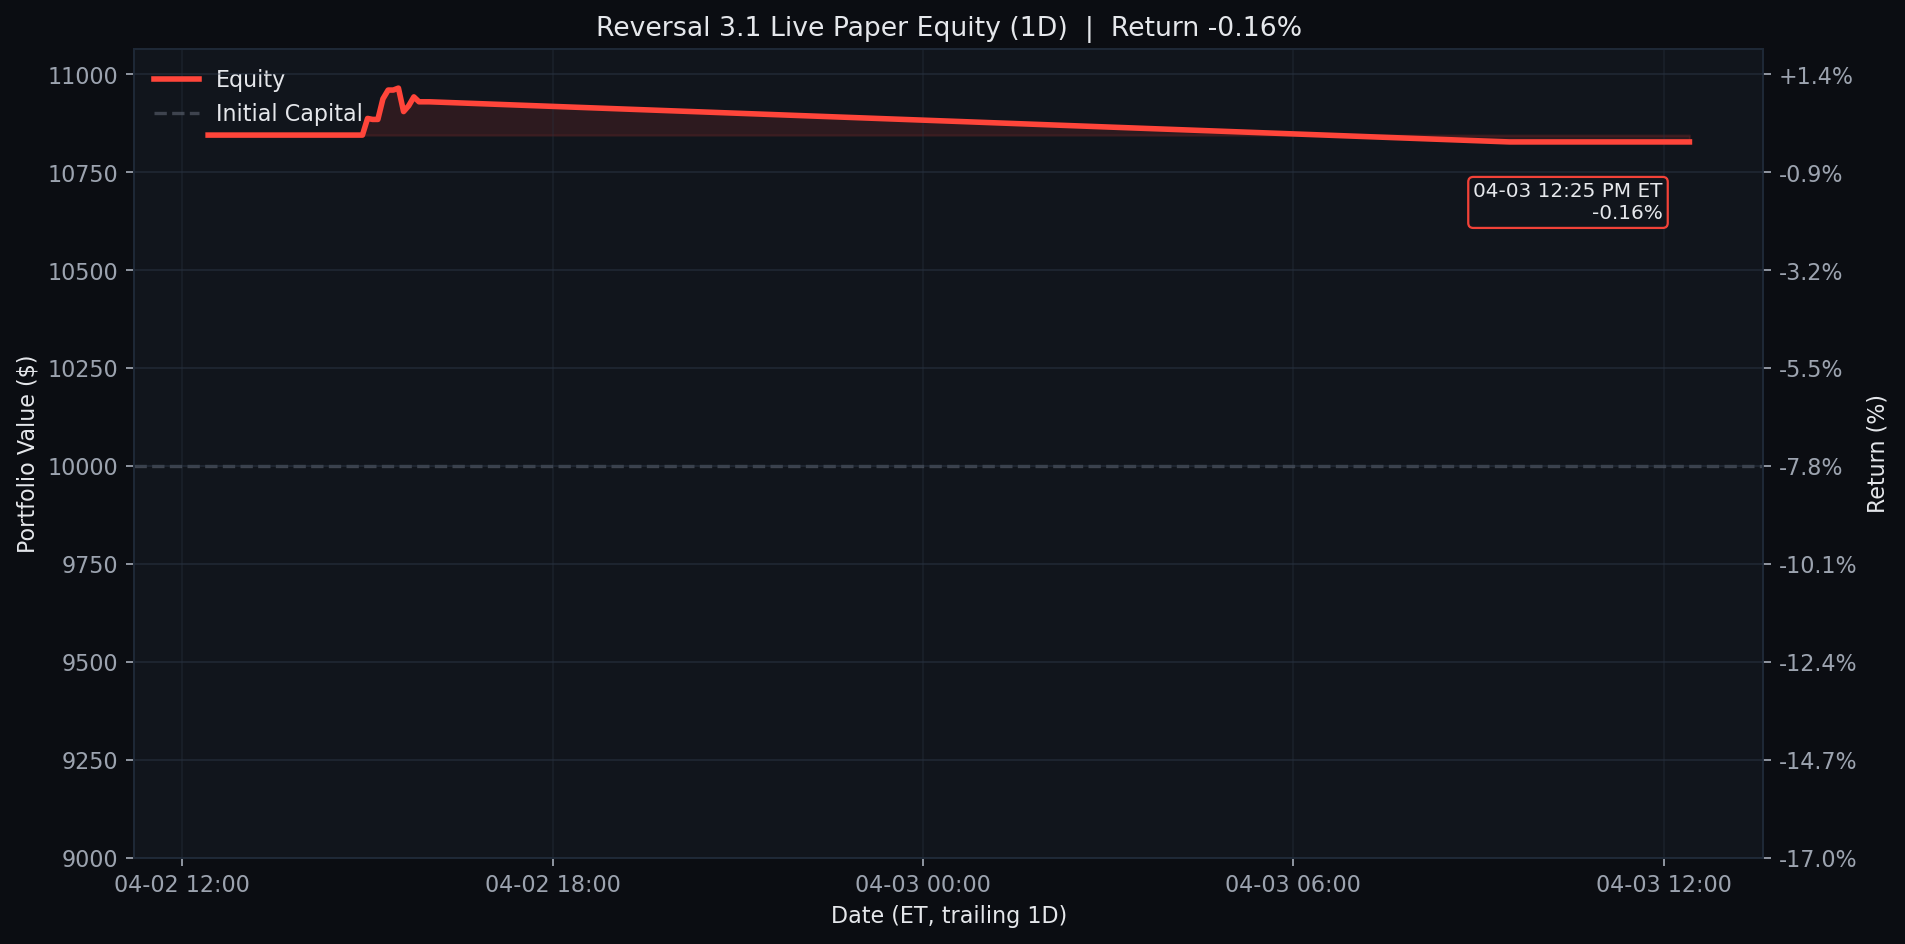
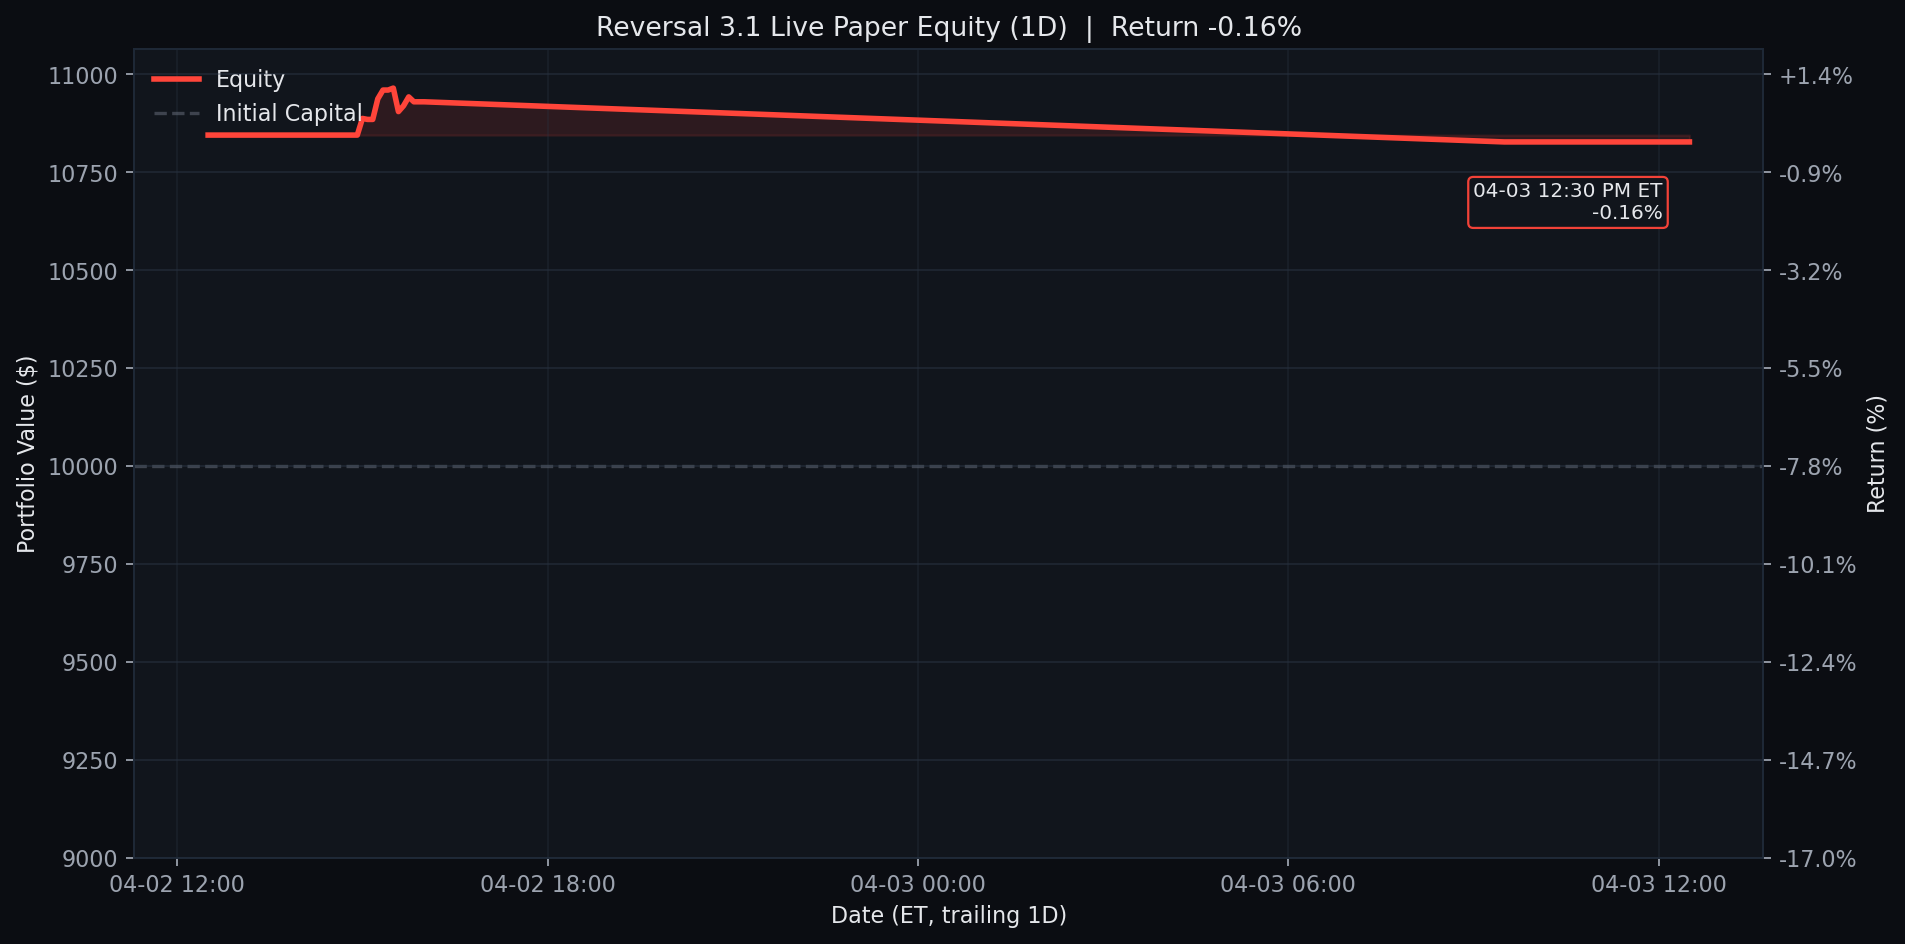
Update Reversal 3.1 live paper test 2026-04-03 12:30 ET

diff --git a/results/reversal_3_1_live/README.md b/results/reversal_3_1_live/README.md
@@ -1,6 +1,6 @@
 # Reversal 3.1 Live Paper Test
 
-Last updated (ET): `2026-04-03 12:25:05 EDT`
+Last updated (ET): `2026-04-03 12:30:02 EDT`
 Last processed slot: `manage_1230`
 
 ## Active Configuration
@@ -58,6 +58,7 @@ ticker  success_rate_%  matched_signals  current_drop_%  target_rebound_$  targe
 
 ```text
                     timestamp_et        slot   event_type                          detail
+2026-04-03T12:30:02.902231-04:00 manage_1230 slot_skipped {"reason": "already_processed"}
 2026-04-03T12:25:05.884462-04:00 manage_1230 slot_skipped {"reason": "already_processed"}
 2026-04-03T12:10:05.930387-04:00 manage_1200 slot_skipped {"reason": "already_processed"}
 2026-04-03T12:05:05.892529-04:00 manage_1200 slot_skipped {"reason": "already_processed"}
@@ -67,7 +68,6 @@ ticker  success_rate_%  matched_signals  current_drop_%  target_rebound_$  targe
 2026-04-03T11:35:05.892486-04:00 manage_1130 slot_skipped {"reason": "already_processed"}
 2026-04-03T11:30:05.885882-04:00 manage_1130 slot_skipped {"reason": "already_processed"}
 2026-04-03T11:25:00.980983-04:00 manage_1130 slot_skipped {"reason": "already_processed"}
-2026-04-03T11:10:05.895954-04:00 manage_1100 slot_skipped {"reason": "already_processed"}
 ```
 
 ## Equity Curves

diff --git a/README.md b/README.md
@@ -3,7 +3,7 @@
 <!-- reversal-3.1-live:start -->
 ## Reversal 3.1 Live Paper Test
 
-- Last updated (ET): `2026-04-03 12:25:05 EDT`
+- Last updated (ET): `2026-04-03 12:30:02 EDT`
 - Equity: `$10,827.50` | Realized: `$845.00` | Unrealized: `$-17.50` | Open positions: `1`
 - Today closed trades: `0`
 - Current slot: `manage_1230`
